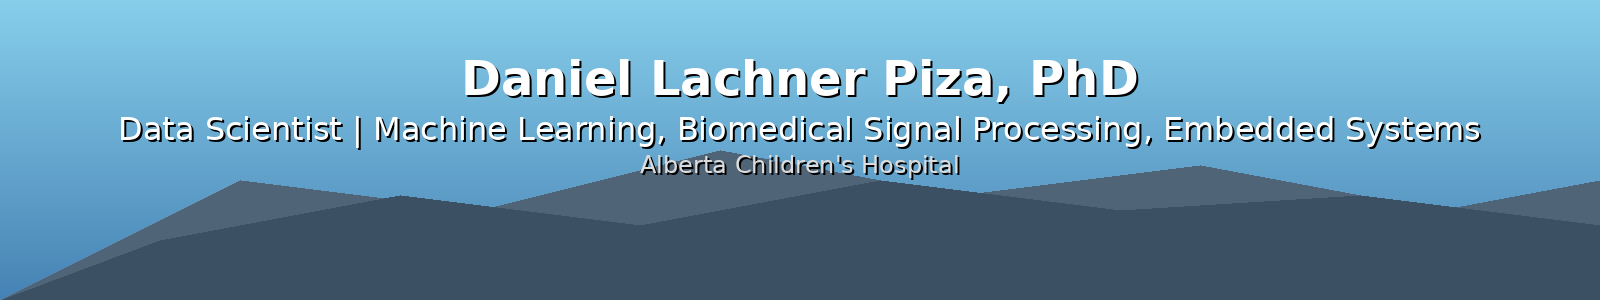
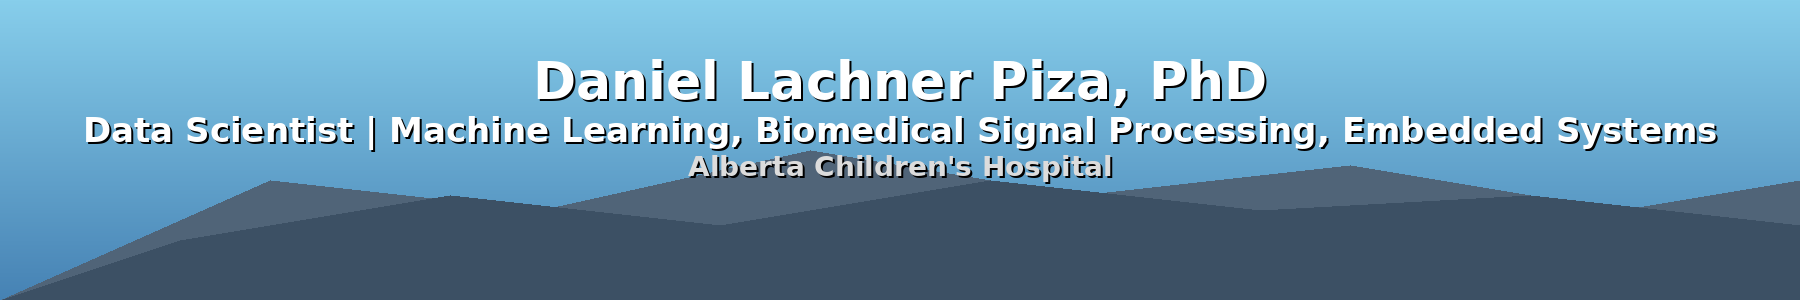
urm

Changed region(s): [[0.0312, 0.39, 0.9688, 0.6], [0.2812, 0.18, 0.7188, 0.36]]

diff --git a/create_banner.py b/create_banner.py
@@ -42,7 +42,7 @@ def create_mountain_silhouette(width, height):
 
 def create_banner():
     # Banner dimensions
-    width, height = 1600, 300
+    width, height = 1800, 300
     
     # Create image with gradient background (sky)
     img = Image.new('RGB', (width, height), color='white')
@@ -69,9 +69,9 @@ def create_banner():
     # Try to load a font, fallback to default if not available
     try:
         # Try to use a clean, professional font
-        title_font = ImageFont.truetype("/usr/share/fonts/truetype/dejavu/DejaVuSans-Bold.ttf", 48)
-        subtitle_font = ImageFont.truetype("/usr/share/fonts/truetype/dejavu/DejaVuSans.ttf", 32)
-        small_font = ImageFont.truetype("/usr/share/fonts/truetype/dejavu/DejaVuSans.ttf", 24)
+        title_font = ImageFont.truetype("/usr/share/fonts/truetype/dejavu/DejaVuSans-Bold.ttf", 52)
+        subtitle_font = ImageFont.truetype("/usr/share/fonts/truetype/dejavu/DejaVuSans-Bold.ttf", 34)
+        small_font = ImageFont.truetype("/usr/share/fonts/truetype/dejavu/DejaVuSans-Bold.ttf", 28)
     except:
         try:
             title_font = ImageFont.truetype("arial.ttf", 48)
